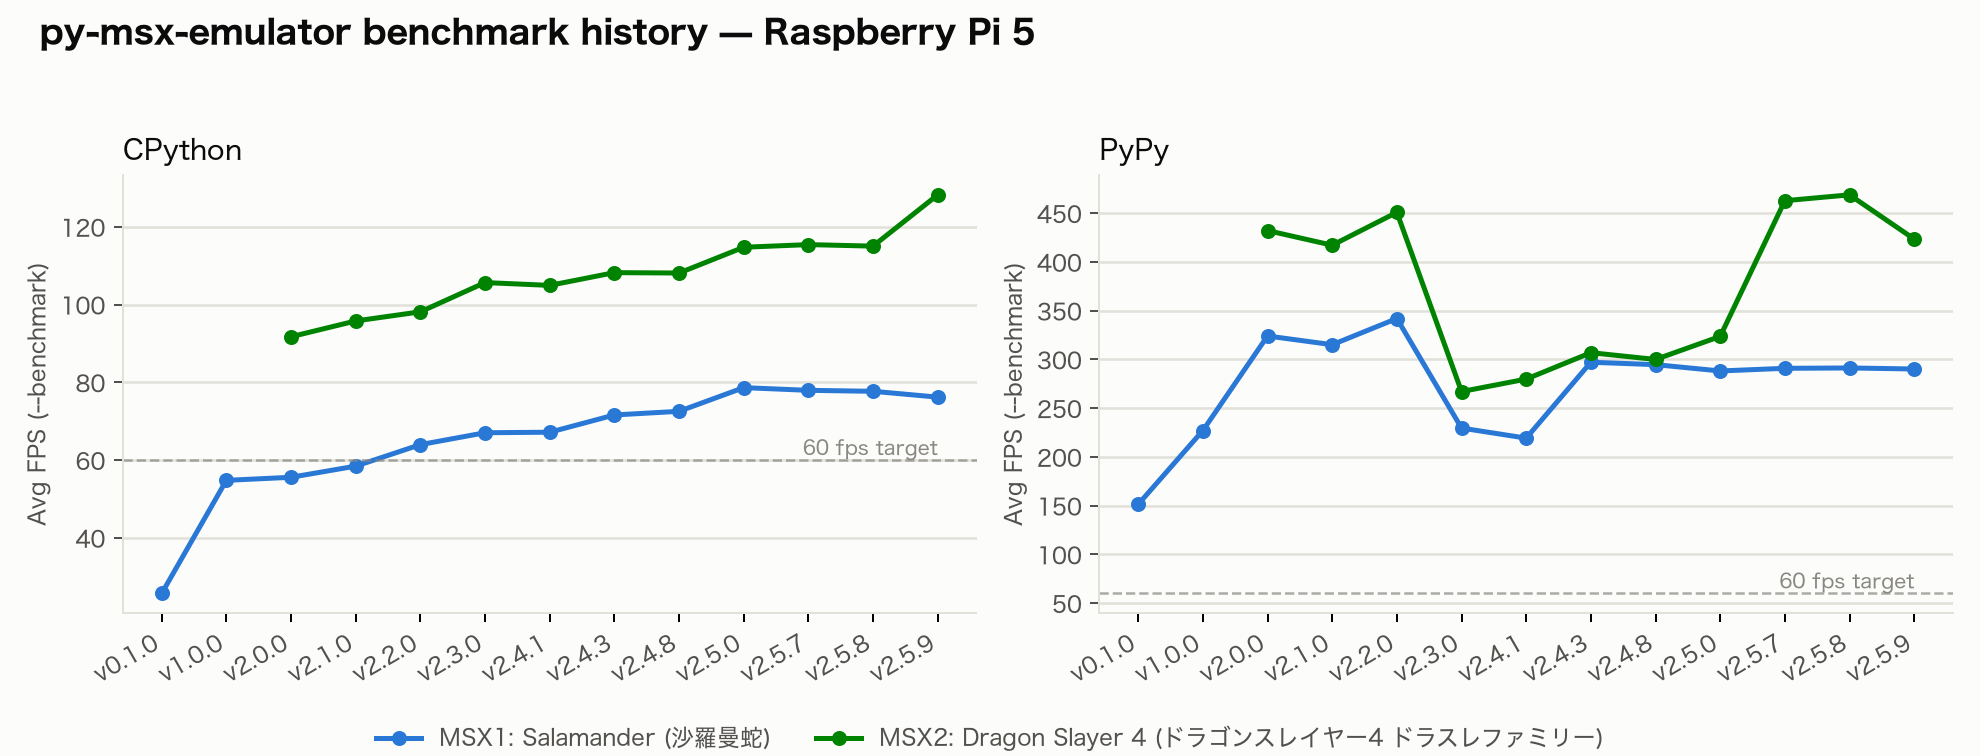
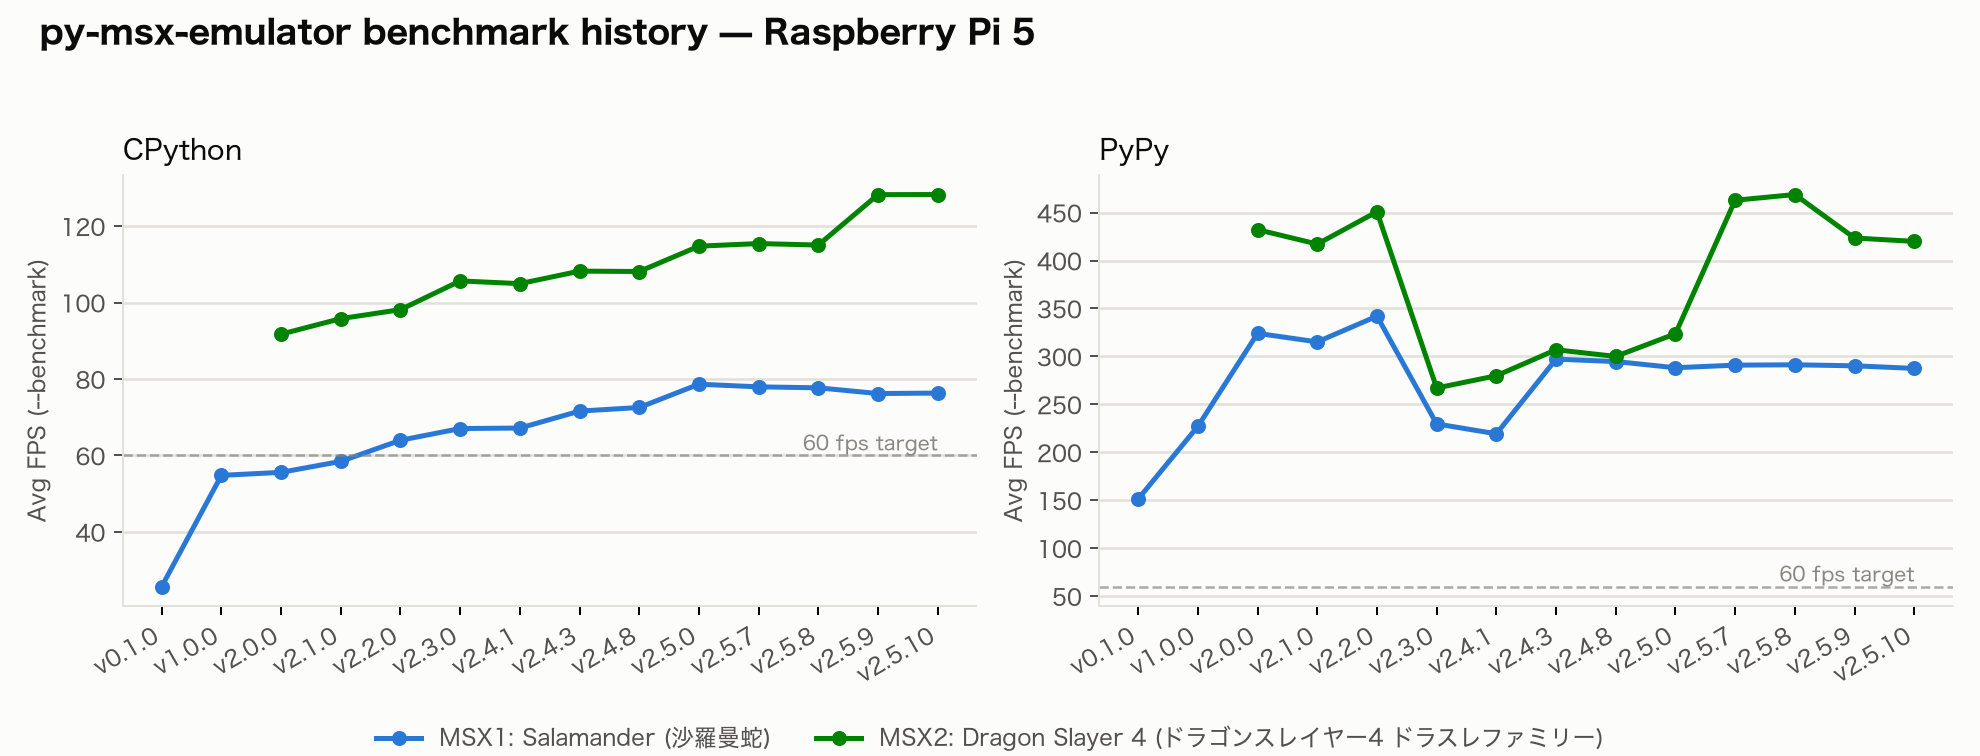
chore(bench): refresh benchmark numbers and history charts for v2.5.10
Add logs/bench-on-v2.5.10_{m5pro,rpi5}.md (10-run --benchmark measurements
on Salamander/Dragon Slayer 4, CPython + PyPy), update README.md/
README_ja.md's Performance table with the new averages and vs-60fps
ratios, and regenerate assets/bench-history-{m5pro,rpi5}.png via
scripts/plot_benchmark_history.py to extend the history through
v2.5.10. Narrative text (tightest-margin case, ~1.3x/~4.8x on
Raspberry Pi 5) is unchanged since those ratios still hold at the new
numbers.

Claude-Session: https://claude.ai/code/session_01HYcw2hpqucVF18pk91rYVc

Changed region(s): [[0.0, 0.2434, 0.9859, 0.9127], [0.5237, 0.2738, 0.5545, 0.3042]]

diff --git a/README_ja.md b/README_ja.md
@@ -330,14 +330,14 @@ v2.5.0 以降は、仕様と実装の整合性を検証するための第2の振
 
 | プラットフォーム | ランタイム | ゲーム | 平均 FPS（`--benchmark`） | 60 fps 目標との比 |
 | --- | --- | --- | --- | --- |
-| Apple MacBook Pro（M5 Pro） | CPython 3.12.13 | MSX1: 沙羅曼蛇（KonamiSCC） | 291.61 | 約 4.9 倍 |
-| Apple MacBook Pro（M5 Pro） | CPython 3.12.13 | MSX2: ドラゴンスレイヤー4（ASCII8） | 489.35 | 約 8.2 倍 |
-| Apple MacBook Pro（M5 Pro） | PyPy 7.3.19（Python 3.10.16） | MSX1: 沙羅曼蛇（KonamiSCC） | 1159.55 | 約 19.3 倍 |
-| Apple MacBook Pro（M5 Pro） | PyPy 7.3.19（Python 3.10.16） | MSX2: ドラゴンスレイヤー4（ASCII8） | 1353.42 | 約 22.6 倍 |
-| Raspberry Pi 5 | CPython 3.12.13 | MSX1: 沙羅曼蛇（KonamiSCC） | 76.20 | 約 1.3 倍 |
-| Raspberry Pi 5 | CPython 3.12.13 | MSX2: ドラゴンスレイヤー4（ASCII8） | 128.24 | 約 2.1 倍 |
-| Raspberry Pi 5 | PyPy 7.3.19（Python 3.10.16） | MSX1: 沙羅曼蛇（KonamiSCC） | 290.21 | 約 4.8 倍 |
-| Raspberry Pi 5 | PyPy 7.3.19（Python 3.10.16） | MSX2: ドラゴンスレイヤー4（ASCII8） | 423.50 | 約 7.1 倍 |
+| Apple MacBook Pro（M5 Pro） | CPython 3.12.13 | MSX1: 沙羅曼蛇（KonamiSCC） | 284.72 | 約 4.7 倍 |
+| Apple MacBook Pro（M5 Pro） | CPython 3.12.13 | MSX2: ドラゴンスレイヤー4（ASCII8） | 476.83 | 約 7.9 倍 |
+| Apple MacBook Pro（M5 Pro） | PyPy 7.3.19（Python 3.10.16） | MSX1: 沙羅曼蛇（KonamiSCC） | 1101.15 | 約 18.4 倍 |
+| Apple MacBook Pro（M5 Pro） | PyPy 7.3.19（Python 3.10.16） | MSX2: ドラゴンスレイヤー4（ASCII8） | 1270.47 | 約 21.2 倍 |
+| Raspberry Pi 5 | CPython 3.12.13 | MSX1: 沙羅曼蛇（KonamiSCC） | 76.32 | 約 1.3 倍 |
+| Raspberry Pi 5 | CPython 3.12.13 | MSX2: ドラゴンスレイヤー4（ASCII8） | 128.27 | 約 2.1 倍 |
+| Raspberry Pi 5 | PyPy 7.3.19（Python 3.10.16） | MSX1: 沙羅曼蛇（KonamiSCC） | 287.51 | 約 4.8 倍 |
+| Raspberry Pi 5 | PyPy 7.3.19（Python 3.10.16） | MSX2: ドラゴンスレイヤー4（ASCII8） | 419.97 | 約 7.0 倍 |
 
 今回計測したすべての組み合わせが、生の 60 fps 目標をクリアしています。最も余裕が小さいのは Raspberry Pi 5 + CPython で沙羅曼蛇（MSX1、KonamiSCC マッパー — 対象タイトルの中で描画・オーディオ負荷が最も重い）を実行した場合で、約 1.3 倍です。PyPy に切り替えると同じケースが約 4.8 倍まで上がります。Raspberry Pi 5 より低速なハードウェア、あるいはより重いタイトルでは 60 fps を下回ることがあり、その場合は達成されたフレームレートに比例してゲームがスローモーションで動作します。オーディオサンプルはフレームごとに生成される一方でオーディオデバイスは常に 44100 Hz で消費するため、オーディオも劣化します（クリックノイズや無音）。PyPy3 はそのまま代替として使えるランタイムであり、処理能力の低いハードウェアでのスループットを大幅に改善するため、Raspberry Pi のような制約のあるハードウェアで余裕を保つために推奨されます。
 
@@ -345,7 +345,7 @@ PyPy の数値は CPython よりも実行ごとのブレが大きくなりやす
 
 ### ベンチマーク推移
 
-v0.1.0 から v2.5.9 までの平均 FPS（`--benchmark`）の推移（プラットフォーム・ランタイム別）：
+v0.1.0 から v2.5.10 までの平均 FPS（`--benchmark`）の推移（プラットフォーム・ランタイム別）：
 
 ![Apple MacBook Pro（M5 Pro）でのベンチマーク推移](assets/bench-history-m5pro.png)
 

diff --git a/README.md b/README.md
@@ -486,14 +486,14 @@ score.
 
 | Platform | Runtime | Game | Avg FPS (`--benchmark`) | vs. 60 fps target |
 | --- | --- | --- | --- | --- |
-| Apple MacBook Pro (M5 Pro) | CPython 3.12.13 | MSX1: Salamander (KonamiSCC) | 291.61 | ~4.9× |
-| Apple MacBook Pro (M5 Pro) | CPython 3.12.13 | MSX2: Dragon Slayer 4 (ASCII8) | 489.35 | ~8.2× |
-| Apple MacBook Pro (M5 Pro) | PyPy 7.3.19 (Python 3.10.16) | MSX1: Salamander (KonamiSCC) | 1159.55 | ~19.3× |
-| Apple MacBook Pro (M5 Pro) | PyPy 7.3.19 (Python 3.10.16) | MSX2: Dragon Slayer 4 (ASCII8) | 1353.42 | ~22.6× |
-| Raspberry Pi 5 | CPython 3.12.13 | MSX1: Salamander (KonamiSCC) | 76.20 | ~1.3× |
-| Raspberry Pi 5 | CPython 3.12.13 | MSX2: Dragon Slayer 4 (ASCII8) | 128.24 | ~2.1× |
-| Raspberry Pi 5 | PyPy 7.3.19 (Python 3.10.16) | MSX1: Salamander (KonamiSCC) | 290.21 | ~4.8× |
-| Raspberry Pi 5 | PyPy 7.3.19 (Python 3.10.16) | MSX2: Dragon Slayer 4 (ASCII8) | 423.50 | ~7.1× |
+| Apple MacBook Pro (M5 Pro) | CPython 3.12.13 | MSX1: Salamander (KonamiSCC) | 284.72 | ~4.7× |
+| Apple MacBook Pro (M5 Pro) | CPython 3.12.13 | MSX2: Dragon Slayer 4 (ASCII8) | 476.83 | ~7.9× |
+| Apple MacBook Pro (M5 Pro) | PyPy 7.3.19 (Python 3.10.16) | MSX1: Salamander (KonamiSCC) | 1101.15 | ~18.4× |
+| Apple MacBook Pro (M5 Pro) | PyPy 7.3.19 (Python 3.10.16) | MSX2: Dragon Slayer 4 (ASCII8) | 1270.47 | ~21.2× |
+| Raspberry Pi 5 | CPython 3.12.13 | MSX1: Salamander (KonamiSCC) | 76.32 | ~1.3× |
+| Raspberry Pi 5 | CPython 3.12.13 | MSX2: Dragon Slayer 4 (ASCII8) | 128.27 | ~2.1× |
+| Raspberry Pi 5 | PyPy 7.3.19 (Python 3.10.16) | MSX1: Salamander (KonamiSCC) | 287.51 | ~4.8× |
+| Raspberry Pi 5 | PyPy 7.3.19 (Python 3.10.16) | MSX2: Dragon Slayer 4 (ASCII8) | 419.97 | ~7.0× |
 
 Every combination tested clears the raw 60 fps target. The tightest margin is
 Raspberry Pi 5 with CPython running Salamander (MSX1, KonamiSCC mapper — the
@@ -514,7 +514,7 @@ PyPy figures as broadly indicative rather than exact.
 
 ### Benchmark history
 
-Avg FPS (`--benchmark`) from v0.1.0 through v2.5.9, per platform and runtime:
+Avg FPS (`--benchmark`) from v0.1.0 through v2.5.10, per platform and runtime:
 
 ![Benchmark history on Apple MacBook Pro (M5 Pro)](assets/bench-history-m5pro.png)
 
